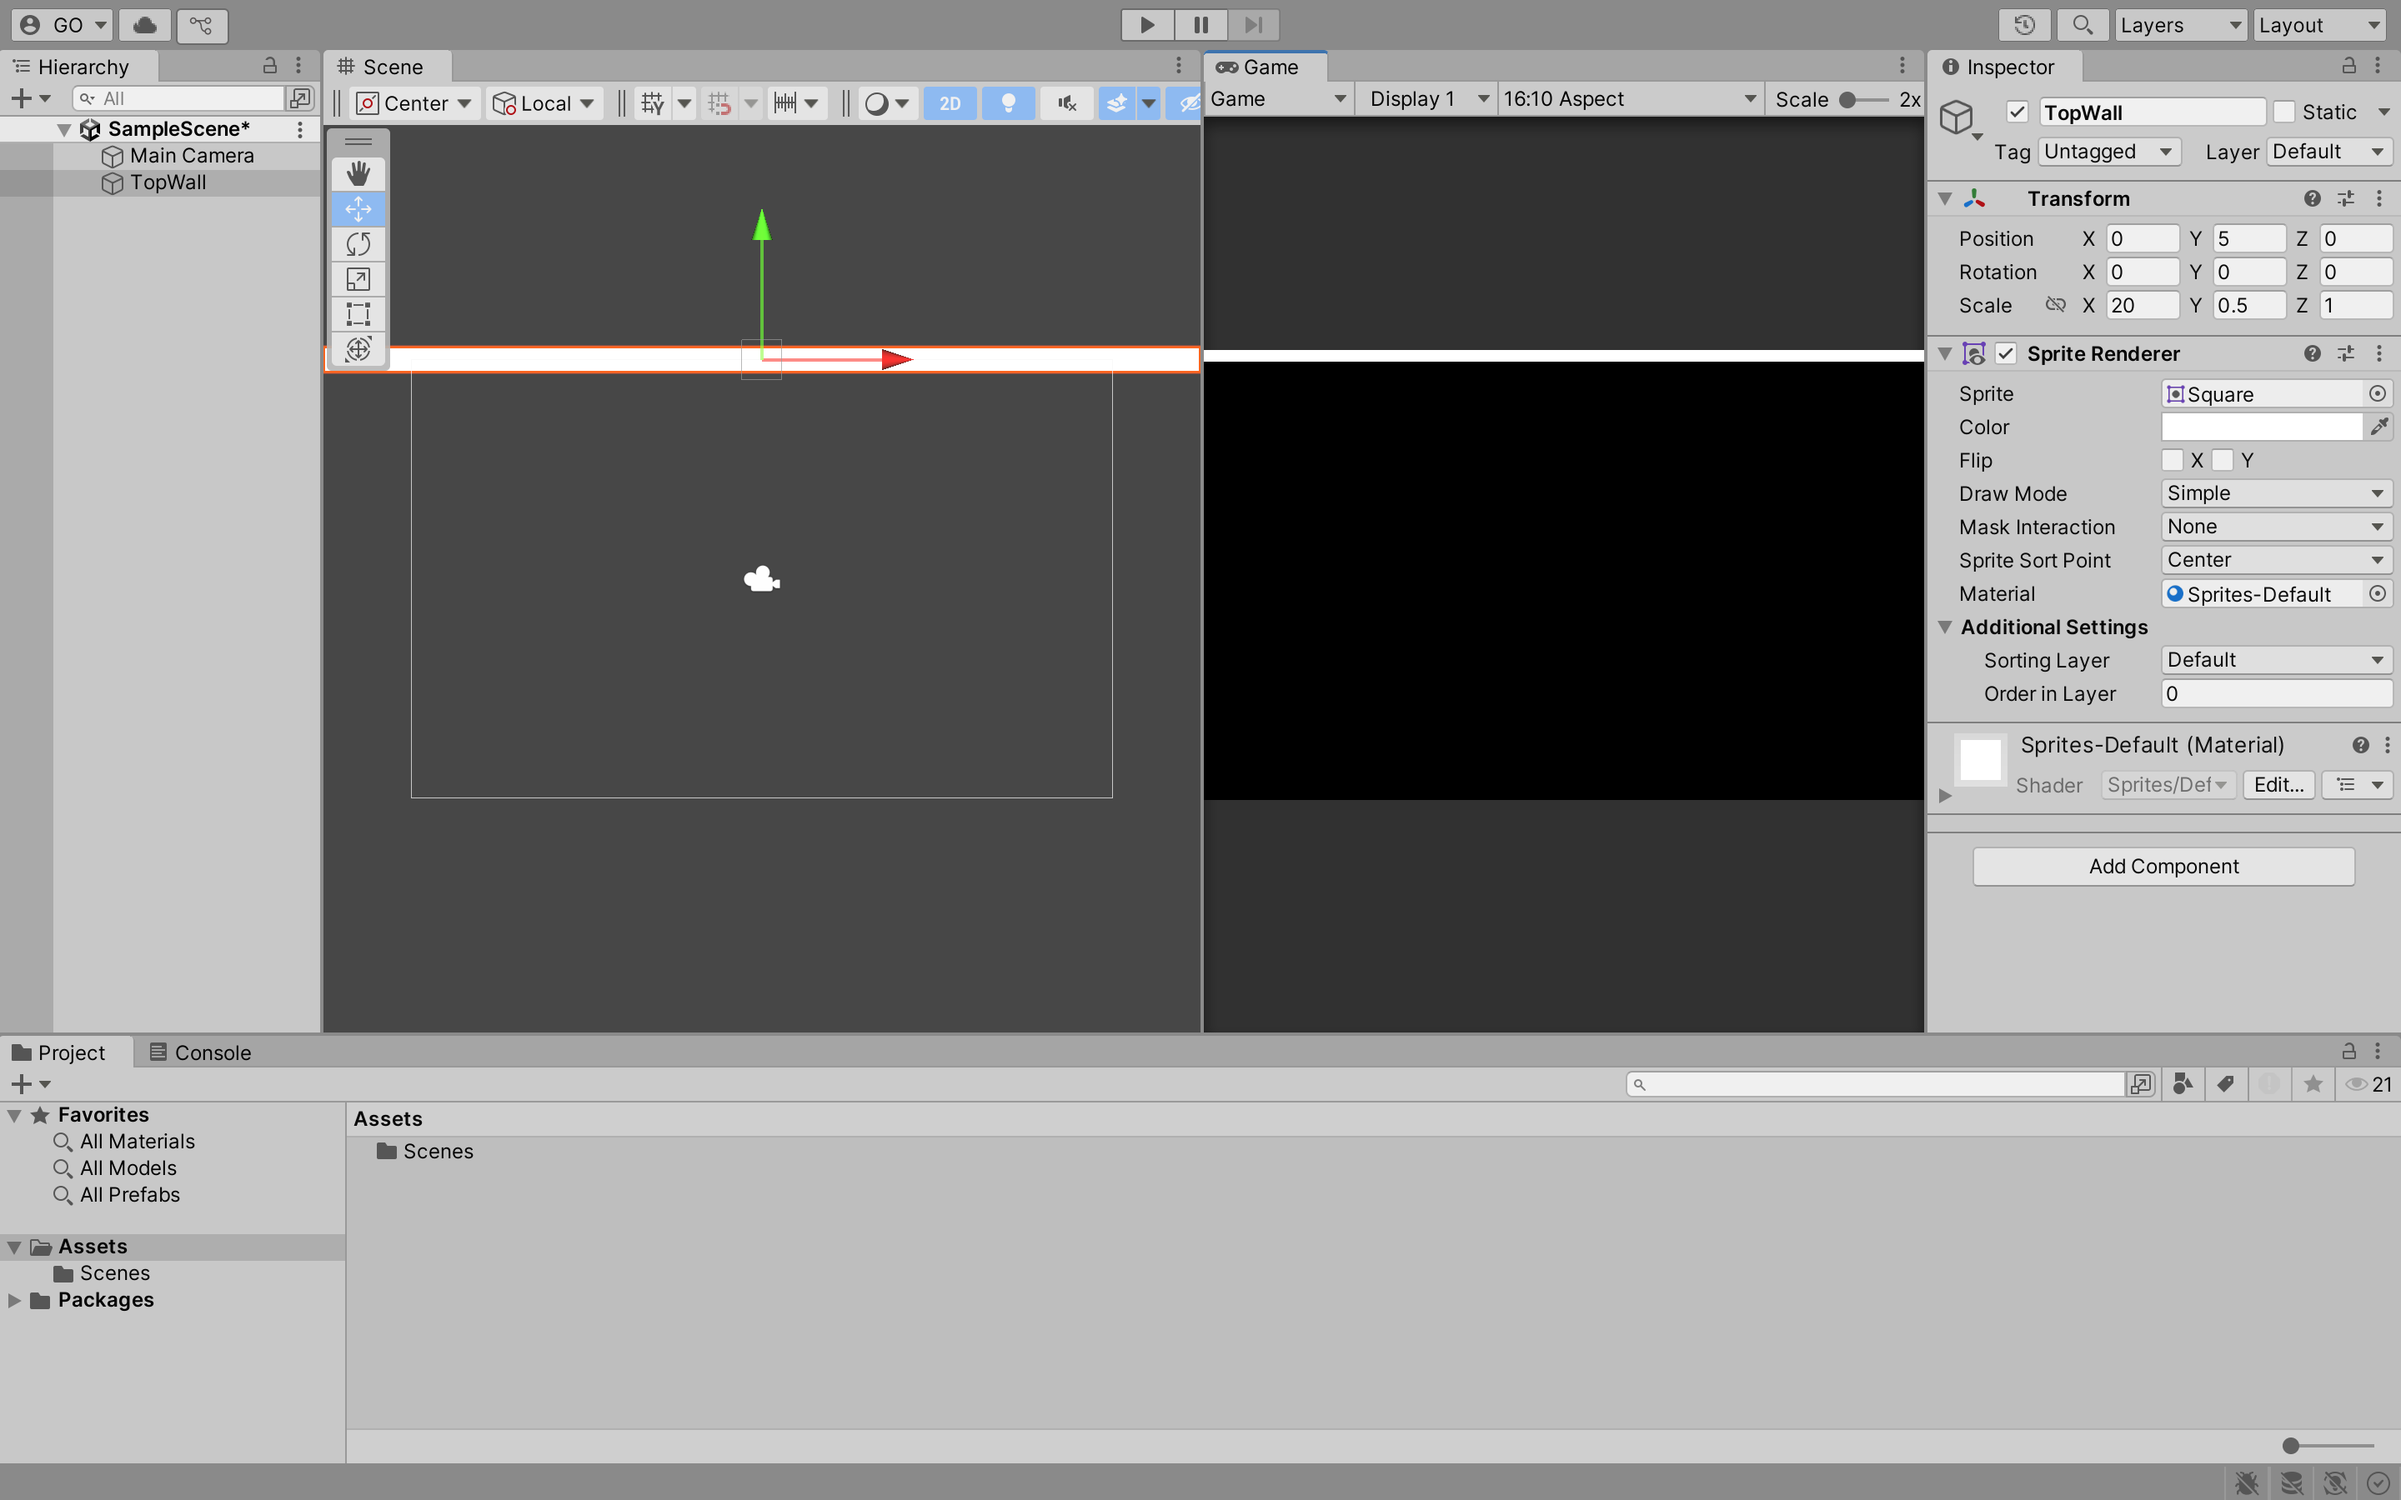
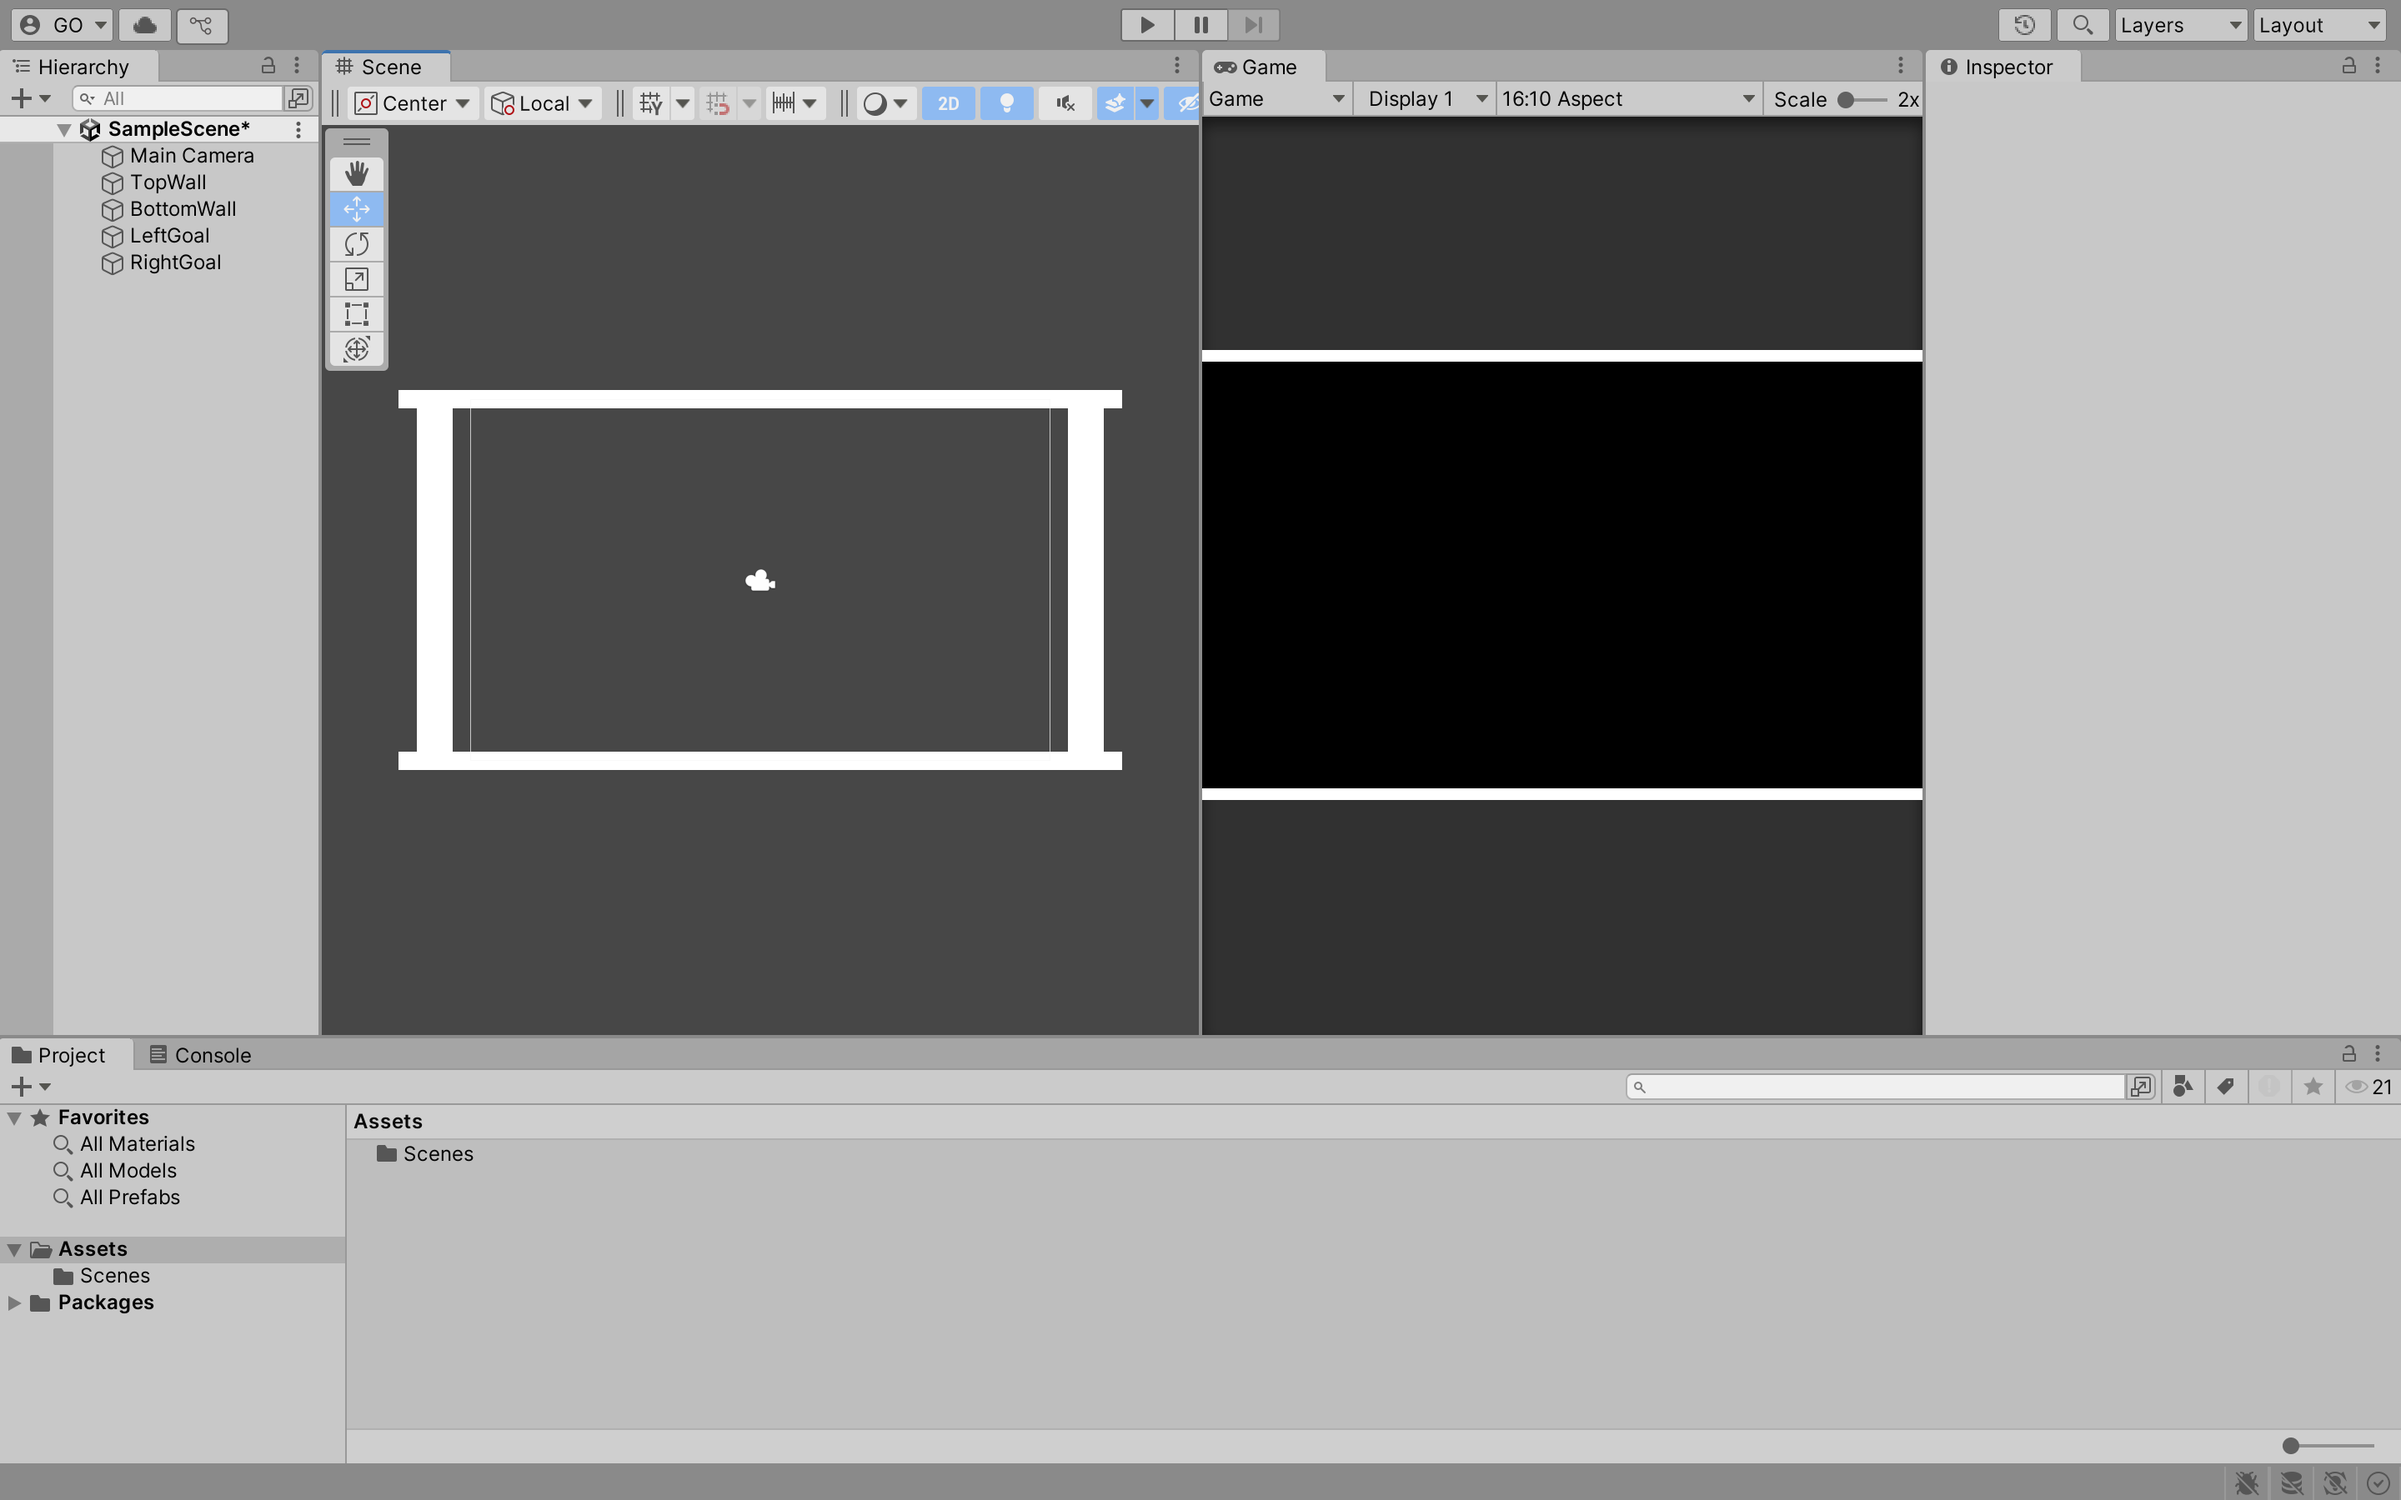
update

diff --git a/lecture-notes/01-github-pong-1.md b/lecture-notes/01-github-pong-1.md
@@ -130,7 +130,7 @@ You can move the windows in **Unity** by clicking on the **tab** of the window a
 
 ### Sprite
 
-To create a **Sprite**, right-click in the **Hierarchy** window, then select **2D Object** and **Sprite**. 
+To create a **Sprite**, right-click in the **Hierarchy** window, then select **2D Object** > **Sprites** > **Square**. 
 
 ![](../resources/img/01-github-pong-1/01-github-pong-1-6.png)
 
@@ -142,13 +142,44 @@ Click on the `TopWall` **Sprite** in the **Hierarchy** window. In the **Inspecto
 
 The **Transform** component is used to store the **Position**, **Rotation** and **Scale** of the **Sprite**. The **Sprite Renderer** component is used to render the **Sprite**.
 
-**Task:** Change the **Position** and **Rotation** of the `TopWall` **Sprite**.
+**Tasks:** 
+
+1. For the `TopWall` **Sprite**, change the Y **Position** to **5**, X **Scale** to **20** and Y **Scale** to **0.5**.
+2. Create the bottom wall, left goal and right goal **Sprites**. The left goal and right goal should be slightly off the camera view.
+
+After completing the tasks, your **Scene** window should look like this:
 
 ![](../resources/img/01-github-pong-1/01-github-pong-1-8.png)
 
+Now, we have the walls and goals for the **Pong** game. Next, we will create the paddles and ball.
+
+**Tasks:**
+
+1. Create the left paddle **Sprite**. Name the **Sprite** `LeftPaddle`. Change the X **Position** to **-7.3**, X **Scale** to **0.5** and Y **Scale** to **1.5**.
+2. Create the ball **Sprite** using **2D Object** > **Sprites** > **Circle**. Change the X **Scale** to **0.5** and Y **Scale** to **0.5**
+
+After completing the tasks, your **Scene** window should look like this:
+
+![](../resources/img/01-github-pong-1/01-github-pong-1-9.png)
+
 ---
 
-### Rigid Body 
+### Rigidbody 2D
+
+In **ID511001: Programming 2**, you wrote the code to move the paddles and ball. In **Unity**, you can use the **Rigidbody 2D** component to interact with the physics engine. This means you do not have to write the code to move the paddles and ball.
+
+To add a **Rigidbody 2D** component to a **GameObject**, i.e., `LeftPaddle` **Sprite**, click on the **GameObject** in the **Hierarchy** window, then click on the **Add Component** button in the **Inspector** window. Search for **Rigidbody 2D** and click on it.
+
+![](../resources/img/01-github-pong-1/01-github-pong-1-10.png)
+
+Click the **Play** button to run the game. You should see the `LeftPaddle` **Sprite** fall due to gravity.
+
+**Tasks:**
+
+1. To prevent the `LeftPaddle` **Sprite** from falling, change the **Gravity Scale** to **0** in the **Rigidbody 2D** component.
+2. Add a **Rigidbody 2D** component to the `RightPaddle` **Sprite**. Also, change the **Gravity Scale** to **0**.
+
+Click the **Play** button to run the game. You should see the `LeftPaddle` and `RightPaddle` **Sprites** not falling due to gravity.
 
 ---
 
